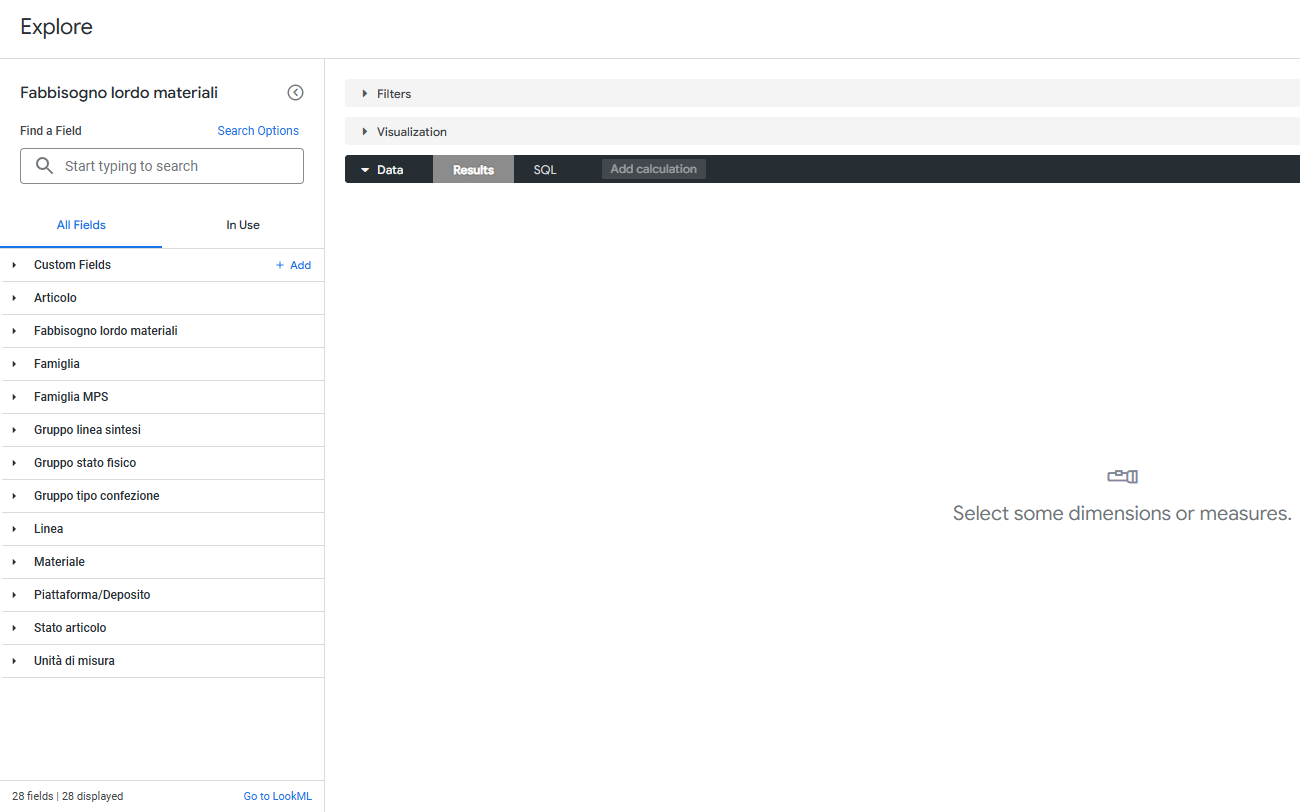
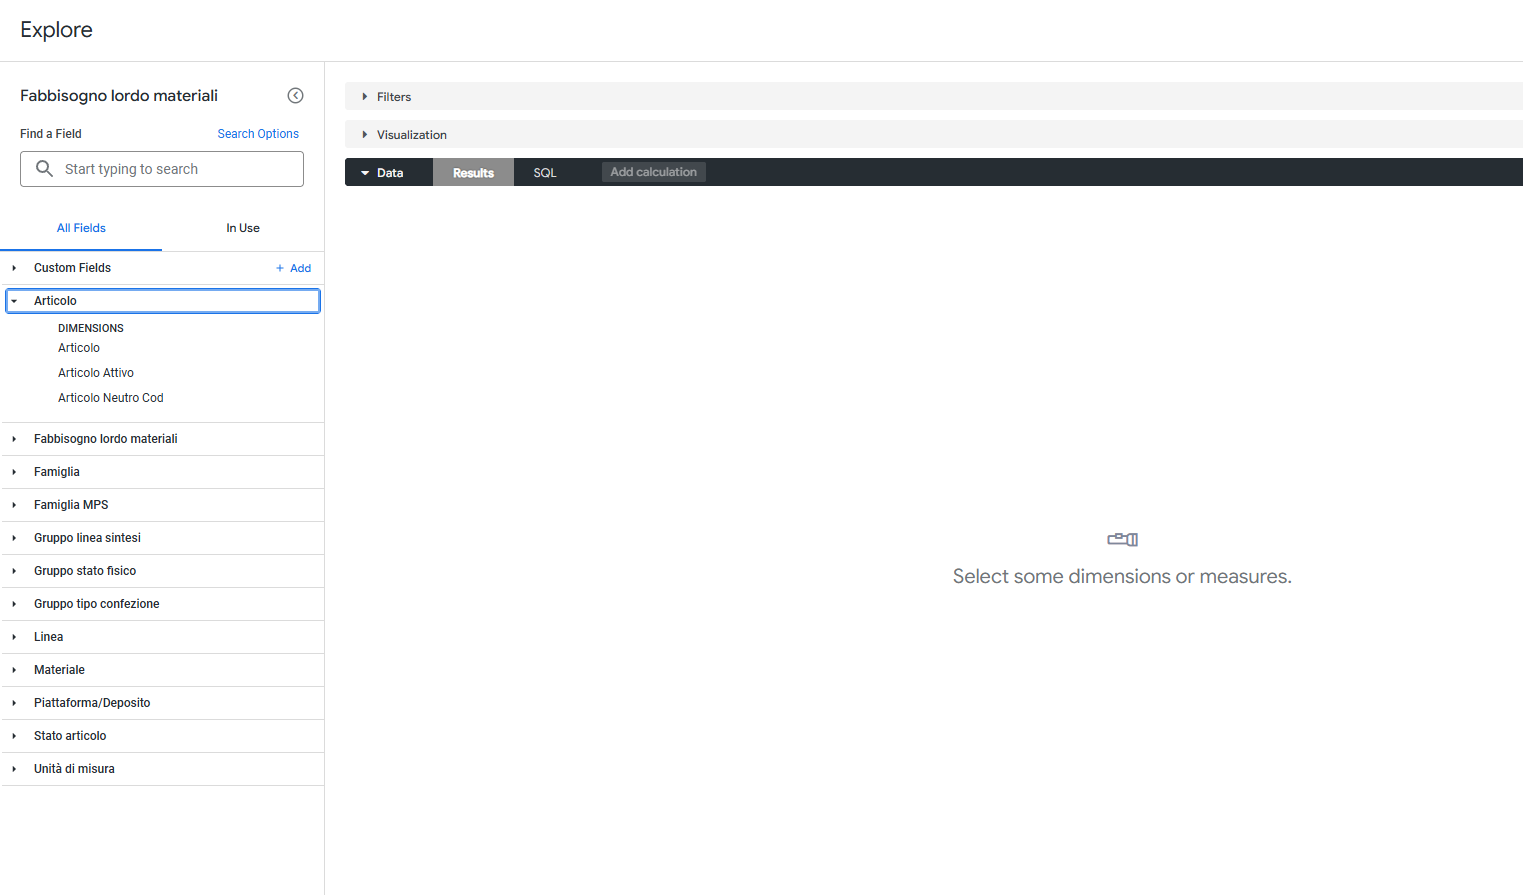
techstack: sostituita la dashboard con un Look e aggiunta la best practice Look -> dashboard
La figura della dashboard in edit mode (non visibile agli utenti di business)
diventa lo screenshot del Look salvato. Aggiunto il paragrafo sui Look come
mattoni riutilizzabili che compongono le dashboard, e aggiornato lo
screenshot dell'Explore.

diff --git a/chapters/techstack.tex b/chapters/techstack.tex
@@ -341,7 +341,7 @@ As demonstrated in \Cref{lst:lookml_model}, the Explore configuration operationa
     \item \textbf{Hierarchical snowflaking:} Upstream product classifications—specifically product lines (\texttt{l\_lin}) and item families (\texttt{l\_fam})—are joined directly to the \texttt{prodotto} alias, creating a normalized dimensional hierarchy while leaving the core fact table centered at the proper level of aggregation.
 \end{itemize}
 
-\Cref{fig:looker_explore} shows the resulting consumption surface as presented to business users in the Looker Explore interface. The field picker exposes only business-oriented namespaces derived from view labels and join aliases (e.g., \textit{Articolo}, \textit{Materiale}, \textit{Piattaforma/Deposito}, \textit{Linea}, \textit{Famiglia}), while surrogate keys, foreign keys, and fragmented code/description columns declared with \texttt{hidden: yes} never appear. The interface therefore provides a direct visual counterpart of the curated semantic boundary: the entire Material Planning domain is reduced to a compact catalog of certified fields.
+\Cref{fig:looker_explore} shows the resulting consumption surface as presented to business users in the Looker Explore interface. The field picker exposes only business-oriented namespaces derived from view labels and join aliases (e.g., \textit{Articolo}, \textit{Materiale}, \textit{Piattaforma/Deposito}, \textit{Linea}, \textit{Famiglia}), while surrogate keys, foreign keys, and fragmented code/description columns declared with \texttt{hidden: yes} never appear. Expanding a namespace, such as \textit{Articolo} in the figure, reveals only the few certified dimensions projected through the join-level \texttt{fields} parameter. The interface therefore provides a direct visual counterpart of the curated semantic boundary: the entire Material Planning domain is reduced to a compact catalog of certified fields.
 
 \begin{figure}[htbp]
     \centering
@@ -361,7 +361,7 @@ To overcome this divide, the operating model formalized in \Cref{sec:organizatio
 \begin{itemize}
     \item \textbf{Autonomous ad-hoc exploration via Symmetric Aggregates:} Within the unified \texttt{material\_planning} explore, the underlying physical complexity is translated into certified business dimensions and aggregated measures. By leveraging Looker's \textit{Symmetric Aggregates} engine—anchored to the composite \texttt{primary\_key} declared in the fact view—the platform mathematically eliminates fanout errors and Cartesian duplicates across multi-table joins. Champions can explore multidimensional cross-sections with mathematical confidence, fully protected against erroneous double-counting.
     \item \textbf{Diagnostic root-cause analysis via \texttt{drill\_fields}:} Beyond consuming pre-aggregated figures, Champions utilize interactive drill paths declared via \texttt{drill\_fields} on core metrics (such as \texttt{fabbisogno\_materiale} and \texttt{casse\_articolo}). Upon identifying anomalous demand variances, they can instantaneously deconstruct the aggregate volume into underlying material classifications, SKU codes, and daily scheduling buckets, diagnosing supply chain bottlenecks autonomously.
-    \item \textbf{Decentralized dashboard curation and peer distribution:} Acting as analytical hubs within their units, Champions convert operational needs into curated analytical views (\textit{Looks}) and compose dynamic, cross-filtered dashboards for their peers. Because these operational assets are anchored directly to centralized LookML definitions, departmental dashboards inherit upstream logic updates automatically, relieving central engineering from routine reporting maintenance while preserving single-source metric integrity.
+    \item \textbf{Reusable Looks as building blocks for dashboards:} Acting as analytical hubs within their units, Champions convert recurring operational questions into saved, named analytical views (\textit{Looks}), which are then assembled into dashboards for their peers. Because Looks and dashboards are anchored directly to centralized LookML definitions, they inherit upstream logic updates automatically, relieving central engineering from routine reporting maintenance while preserving single-source metric integrity.
 \end{itemize}
 
 \Cref{fig:looker_selfservice} illustrates a typical ad-hoc inquiry performed by a Champion without writing any SQL. Starting from the Explore, the user selects the \textit{Fabbisogno Materiale} measure, breaks it down by product line (\textit{Linea}) and forecast quarter, and restricts the scope through three filters: a single logistics platform, the \textit{Ingrediente} material type, and kilograms as unit of measure. Looker compiles these selections into a single SQL statement, translating each filter into a predicate of the \texttt{WHERE} clause (alongside any \texttt{access\_filter} bound to the user's attributes) and including only the joins required by the selected fields. The result is rendered as a set of donut charts, one per quarter, showing how ingredient requirements are distributed across product lines over the planning horizon.
@@ -373,14 +373,16 @@ To overcome this divide, the operating model formalized in \Cref{sec:organizatio
     \label{fig:looker_selfservice}
 \end{figure}
 
-Once validated, such an exploration can be saved and promoted to a dashboard tile, as shown in \Cref{fig:looker_dashboard}. The dashboard exposes the same dimensions as interactive dashboard-level filters (\textit{Piattaforma}, \textit{Tipo Materiale}, \textit{UM}), whose suggested values are populated directly from the LookML model. Peers can therefore switch platform, material type, or unit of measure (e.g., from kilograms to linear meters for packaging films) without modifying the underlying query, and any future change to the semantic definitions is automatically inherited by the dashboard.
+Once validated, such an exploration is not left as a one-off query but saved as a \textit{Look}, as shown in \Cref{fig:looker_look}. A Look is a named, persistent analytical asset that stores the selected fields, filters, and visualization settings, and is published in a shared folder where business users consume it in read-only mode. Users can still adjust the exposed filters (e.g., platform, material type, or unit of measure), whose suggested values are populated directly from the LookML model, without being able to alter the underlying query definition.
 
 \begin{figure}[htbp]
     \centering
-    \includegraphics[width=\textwidth]{figures/looker_dashboard.png}
-    \caption{A Champion-curated Looker dashboard in edit mode, built on the same Explore: dashboard-level filters on platform, material type, and unit of measure drive all tiles, with filter values suggested by the semantic model.}
-    \label{fig:looker_dashboard}
+    \includegraphics[width=\textwidth]{figures/looker_look.png}
+    \caption{The exploration of \Cref{fig:looker_selfservice} saved as a reusable Look (\textit{Ingredients (Kg) by line and quarter}), consumed by business users in read-only mode with adjustable filters.}
+    \label{fig:looker_look}
 \end{figure}
+
+Creating Looks before dashboards is the recommended practice in the adopted operating model. Each Look encapsulates a single, validated analytical question and becomes a reusable building block: the same Look can be embedded as a tile in multiple dashboards, shared via direct link, scheduled for periodic delivery, or used as a starting point for further exploration. Dashboards are therefore composed of Looks rather than of ad-hoc tiles built from scratch, so a correction or refinement applied once to a Look propagates to every dashboard that references it. This mirrors, at the consumption layer, the DRY principle already enforced in the LookML model: the metric is defined once in the semantic layer, the analytical question is defined once in a Look, and dashboards only orchestrate their composition and shared filters.
 
 \paragraph{Enabling Grounded Generative AI Agents}
 While human analysts and Champions interact with this semantic framework via visual exploration interfaces, the exact same declarative metadata acts as an auditable, deterministic API for autonomous Large Language Models (LLMs) and cognitive agents \cite{googlecloudlookerca2024}. 
